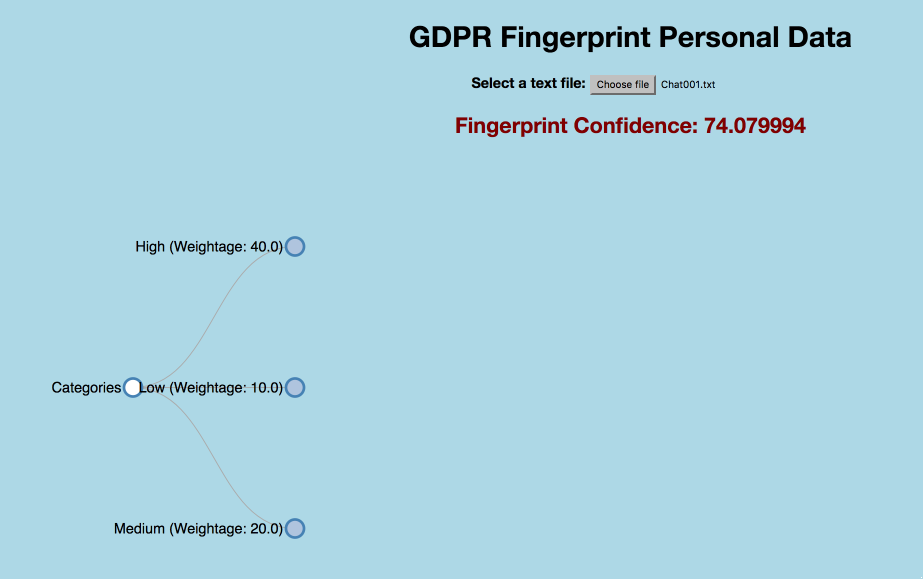
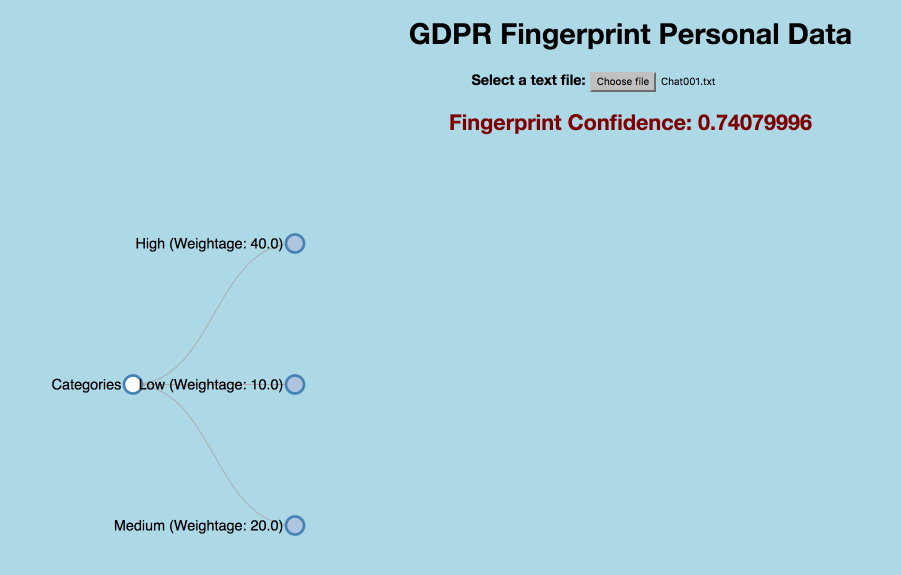
update images

diff --git a/src/main/java/com/ibm/journey/gdpr/bl/ConfidenceScorer.java b/src/main/java/com/ibm/journey/gdpr/bl/ConfidenceScorer.java
@@ -137,7 +137,7 @@ public class ConfidenceScorer {
 					}
 				}
 			}
-			return currentConfidence;
+			return currentConfidence/100;
 			
 		}catch( Exception e){
 			e.printStackTrace();
